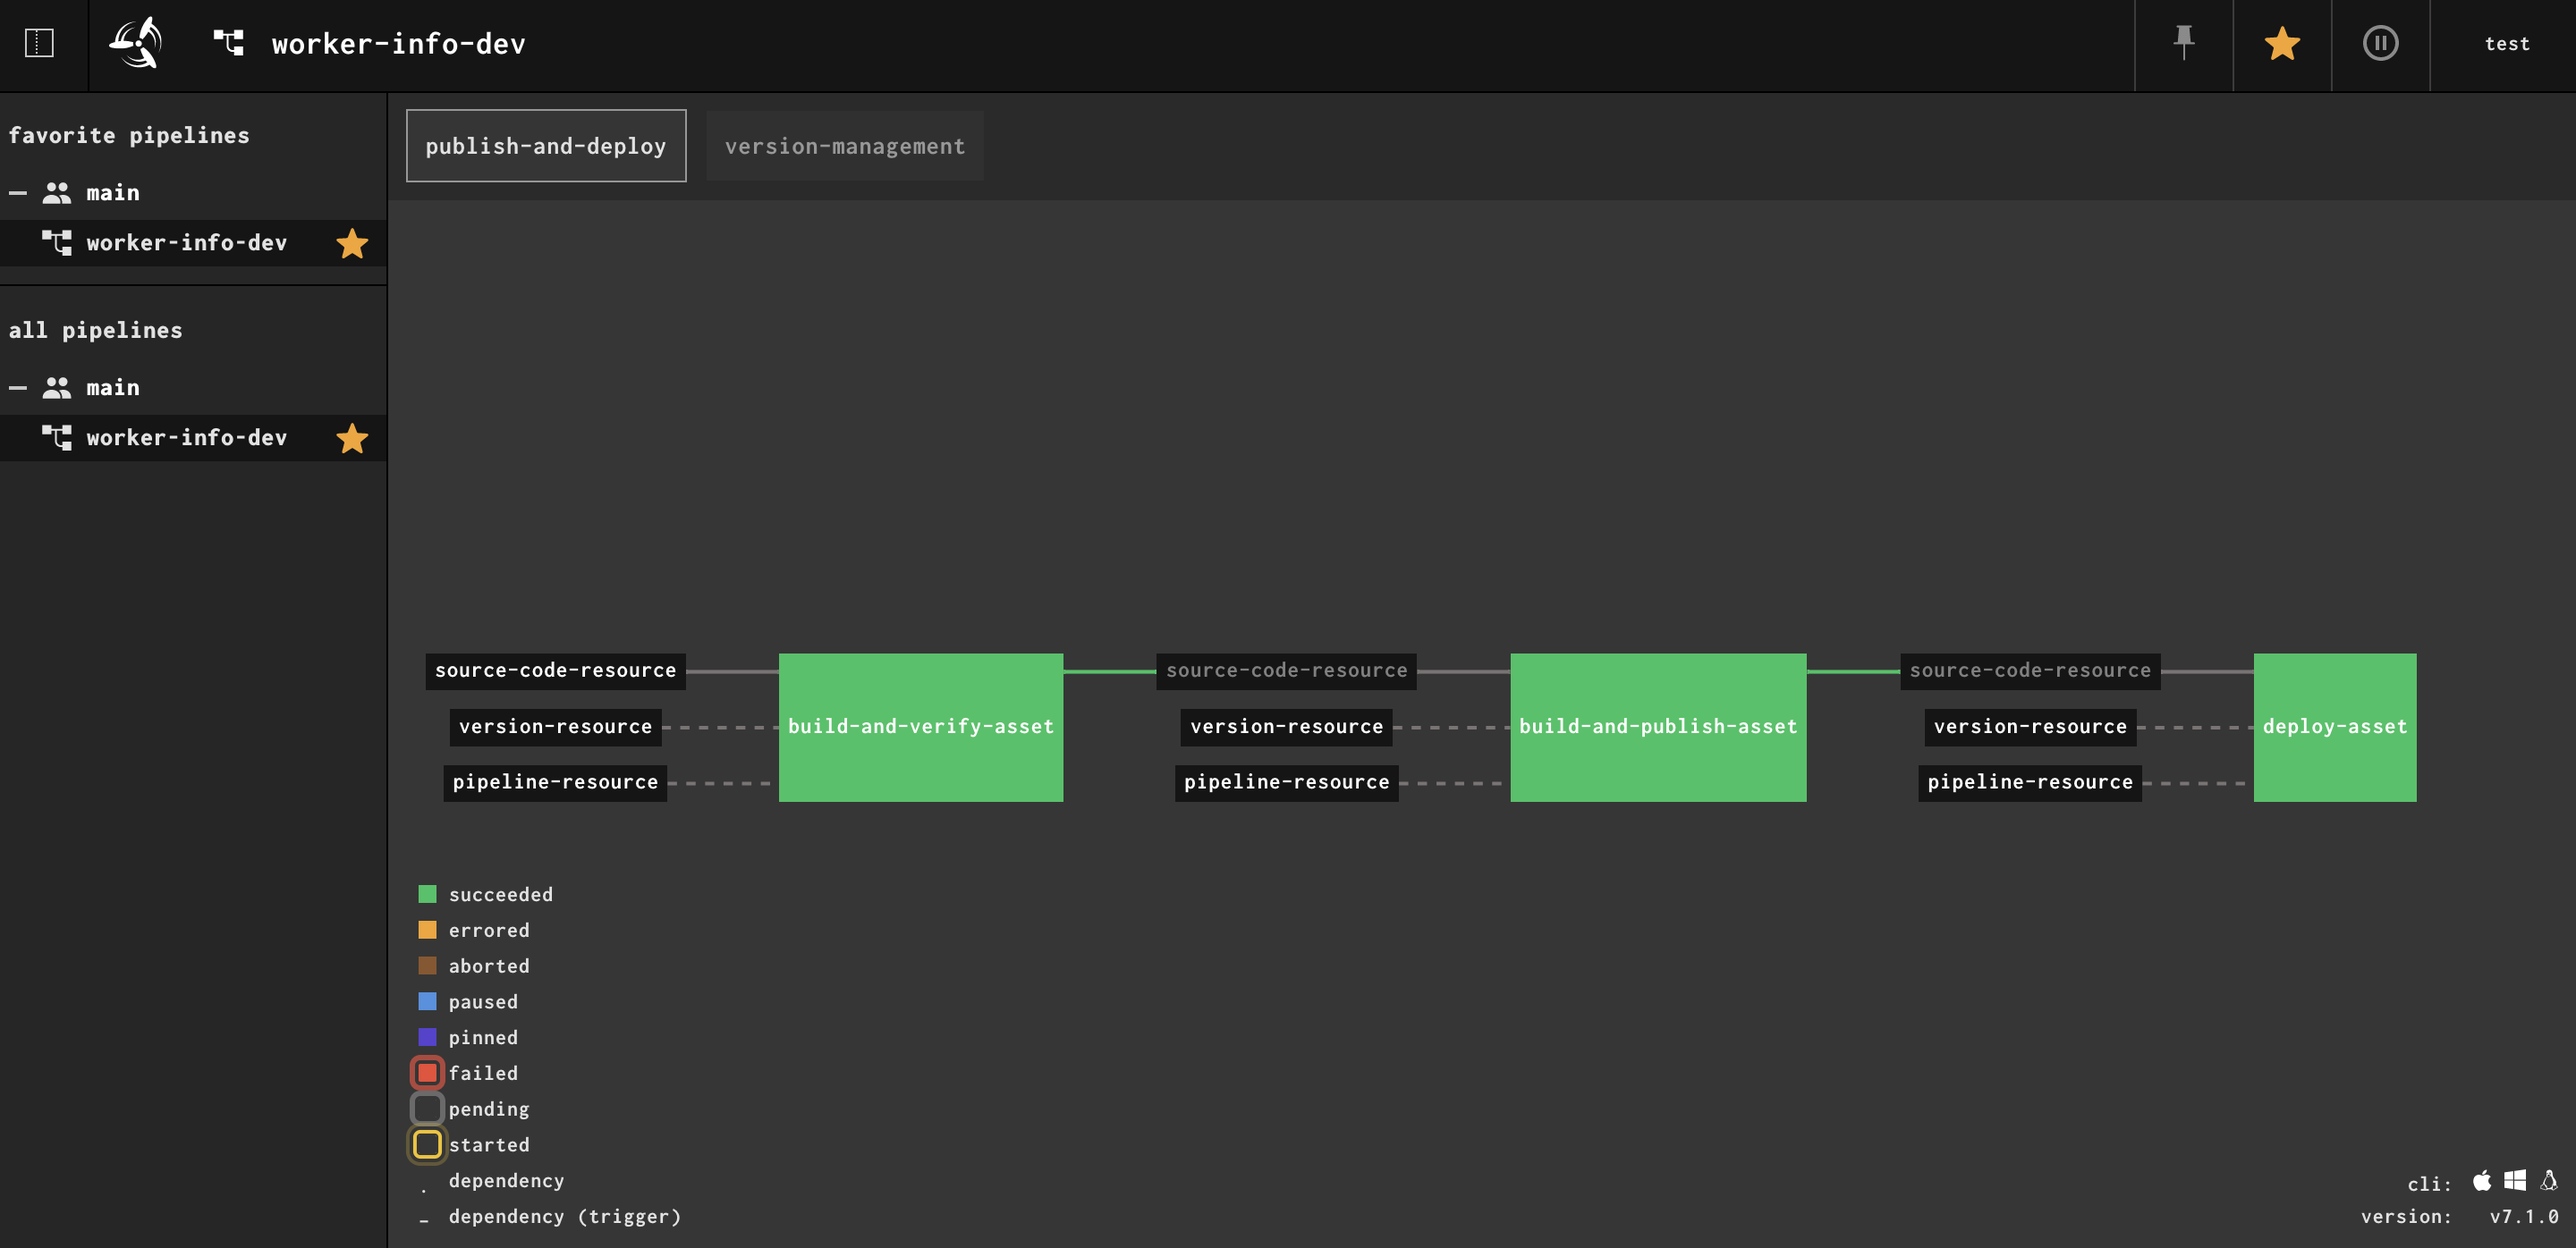
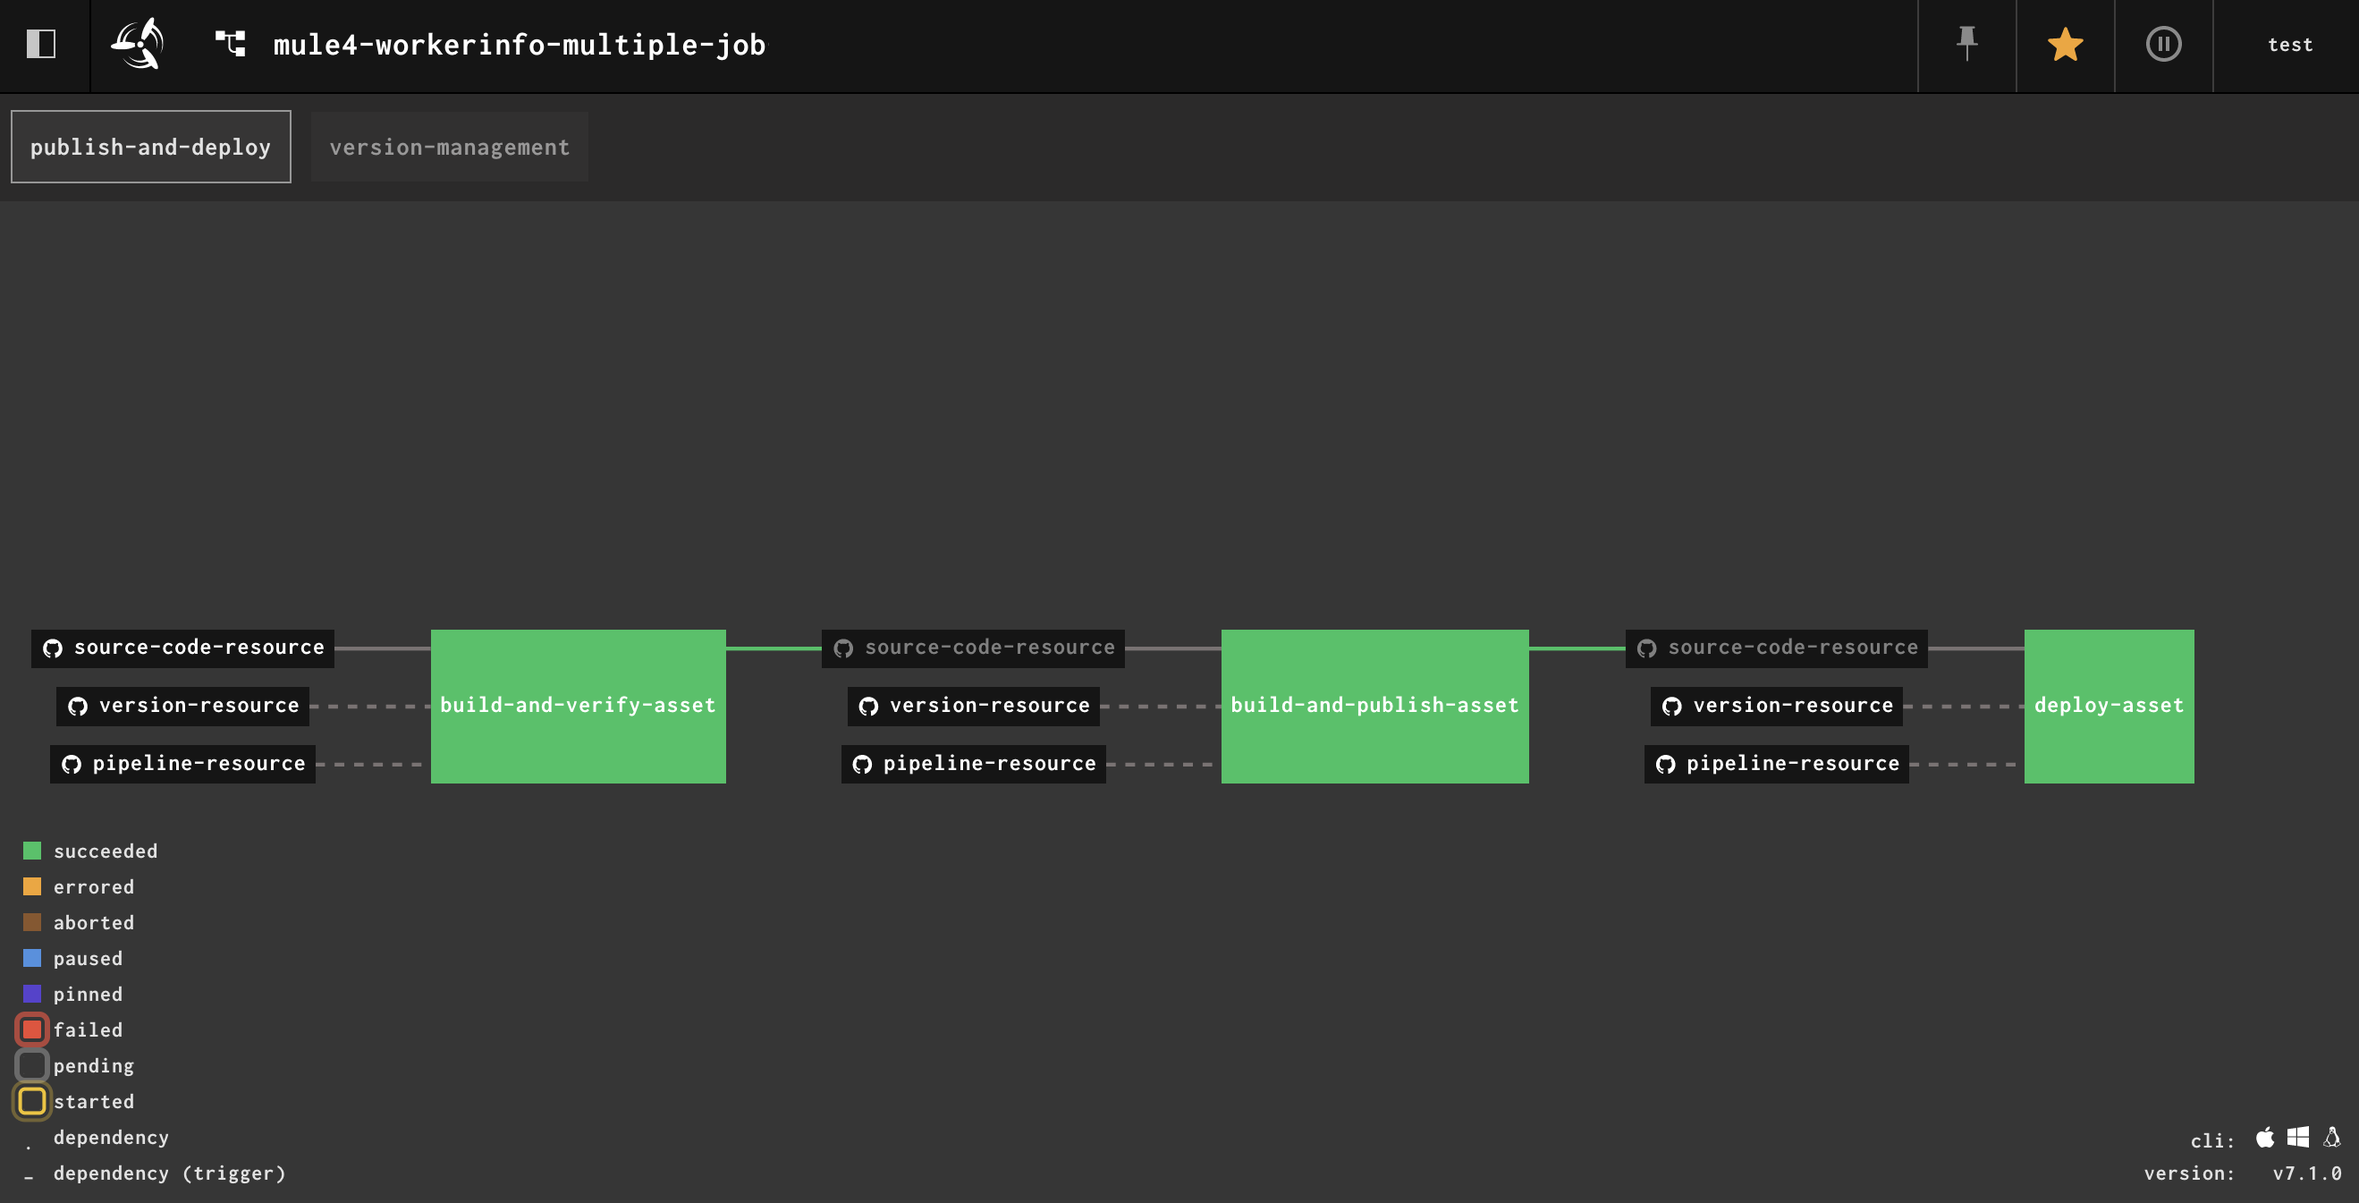
Update resource name

diff --git a/pipelines/pipeline-3/README.md b/pipelines/pipeline-3/README.md
@@ -139,6 +139,21 @@ The **Pipeline** properties refer to a repository containing the generic pipelin
 pipeline-resource-uri: git@github.com:example-org/mule-concourse-pipeline.git
 pipeline-resource-branch: main
 ```
+
+The **Exchange** properties refer to a Docker registry containing the image asset for this resourse type, e.g.:
+
+```
+exchange-concourse-resource-uri: docker.registry.com:10443/exchange-concourse-resource
+exchange-concourse-resource-tag: latest
+```
+
+The **Runtime Fabric** properties refer to a Docker registry containing the image asset for this resourse type, e.g.:
+
+```
+rtf-concourse-resource-uri: docker.registry.com:10443/rtf-concourse-resource
+rtf-concourse-resource-tag: latest
+```
+
 The **Platform** properties can be used to set the platform url and [Connected Apps](https://docs.mulesoft.com/access-management/connected-apps-overview) credentials, e.g.:
 
 ```
@@ -200,33 +215,33 @@ exhange-resource-artifact-id: mule4-workerinfo
 1. Create/update pipeline, e.g.:
 
 ```
-$ fly -t anypoint sp -p worker-info-dev -c pipeline.yml -l properties.yml -l credentials.yml
+$ fly -t anypoint sp -p mule4-workerinfo-custom-resources -c pipeline.yml -l properties.yml -l credentials.yml
 ```
 
 The **publish-and-deploy** group:
 
-![Concourse UI - worker-info-dev](images/pipeline-3-a.png)
+![Concourse UI - mule4-workerinfo-dev](images/pipeline-3-a.png)
 
 2. Unpause pipeline, e.g.:
 
 ```
-$ fly -t anypoint up -p worker-info-dev
+$ fly -t anypoint up -p mule4-workerinfo-custom-resources
 ```
 
 3. [ **Optional** ] - Trigger job, e.g.:
 
 ```
-$ fly -t anypoint tj -j worker-info-dev/build-and-publish-asset
+$ fly -t anypoint tj -j mule4-workerinfo-custom-resources/build-and-publish-asset
 ```
 
 4. [ **Optional** ] - Watch job, e.g.:
 
 ```
-$ fly -t anypoint watch -j worker-info-dev/build-and-publish-asset
+$ fly -t anypoint watch -j mule4-workerinfo-custom-resources/build-and-publish-asset
 ```
 
 5. [ **Optional** ] - Destroy pipeline, e.g.:
 
 ```
-$ fly -t anypoint dp -p worker-info-dev
+$ fly -t anypoint dp -p mule4-workerinfo-custom-resources
 ```

diff --git a/pipelines/pipeline-1/README.md b/pipelines/pipeline-1/README.md
@@ -159,50 +159,50 @@ deployment-last-mile-security: false
 1. Create/update pipeline, e.g.:
 
 ```
-$ fly -t anypoint sp -p worker-info-dev -c pipeline.yml -l properties.yml -l credentials.yml
+$ fly -t anypoint sp -p mule4-workerinfo-single-job -c pipeline.yml -l properties.yml -l credentials.yml
 ```
 
 The **publish-and-deploy** group:
 
-![Concourse UI - worker-info-dev](images/pipeline-1-a.png)
+![Concourse UI - mule4-workerinfo-dev](images/pipeline-1-a.png)
 
 The **version-management** group:
 
-![Concourse UI - worker-info-dev](images/pipeline-1-b.png)
+![Concourse UI - mule4-workerinfo-dev](images/pipeline-1-b.png)
 
 2. Unpause pipeline, e.g.:
 
 ```
-$ fly -t anypoint up -p worker-info-dev
+$ fly -t anypoint up -p mule4-workerinfo-single-job
 ```
 
 An instance of the **job-publish-and-deploy-asset** job (version: **1.0.1-rc.1-af9eff.....7457fcb**):
 
-![Concourse UI - worker-info-dev](images/pipeline-1-c.png)
+![Concourse UI - mule4-workerinfo-dev](images/pipeline-1-c.png)
 
 Published Exchange asset (version: **1.0.1-rc.1-af9eff.....7457fcb**):
 
-<img src="images/pipeline-1-d.png" alt="Concourse UI - worker-info-dev" width="1280"/>
+<img src="images/pipeline-1-d.png" alt="Concourse UI - mule4-workerinfo-dev" width="1280"/>
 
 Deployed Application based on Exchange asset (version: **1.0.1-rc.1-af9eff.....7457fcb**):
 
-![Concourse UI - worker-info-dev](images/pipeline-1-e.png)
+![Concourse UI - mule4-workerinfo-dev](images/pipeline-1-e.png)
 
 3. [ **Optional** ] - Trigger job, e.g.:
 
 ```
-$ fly -t anypoint tj -j worker-info-dev/job-publish-and-deploy-asset
+$ fly -t anypoint tj -j mule4-workerinfo-single-job/job-publish-and-deploy-asset
 ```
 
 4. [ **Optional** ] - Watch job, e.g.:
 
 ```
-$ fly -t anypoint watch -j worker-info-dev/job-publish-and-deploy-asset
+$ fly -t anypoint watch -j mule4-workerinfo-single-job/job-publish-and-deploy-asset
 ```
 
 5. [ **Optional** ] - Destroy pipeline, e.g.:
 
 ```
-$ fly -t anypoint dp -p worker-info-dev
+$ fly -t anypoint dp -p mule4-workerinfo-single-job
 ```
 

diff --git a/pipelines/pipeline-2/README.md b/pipelines/pipeline-2/README.md
@@ -175,33 +175,33 @@ deployment-last-mile-security: false
 1. Create/update pipeline, e.g.:
 
 ```
-$ fly -t anypoint sp -p worker-info-dev -c pipeline.yml -l properties.yml -l credentials.yml
+$ fly -t anypoint sp -p mule4-workerinfo-multiple-job -c pipeline.yml -l properties.yml -l credentials.yml
 ```
 
 The **publish-and-deploy** group:
 
-![Concourse UI - worker-info-dev](images/pipeline-2-a.png)
+![Concourse UI - mule4-workerinfo-dev](images/pipeline-2-a.png)
 
 2. Unpause pipeline, e.g.:
 
 ```
-$ fly -t anypoint up -p worker-info-dev
+$ fly -t anypoint up -p mule4-workerinfo-multiple-job
 ```
 
 3. [ **Optional** ] - Trigger job, e.g.:
 
 ```
-$ fly -t anypoint tj -j worker-info-dev/build-and-verify-asset
+$ fly -t anypoint tj -j mule4-workerinfo-multiple-job/build-and-verify-asset
 ```
 
 4. [ **Optional** ] - Watch job, e.g.:
 
 ```
-$ fly -t anypoint watch -j worker-info-dev/build-and-verify-asset
+$ fly -t anypoint watch -j mule4-workerinfo-multiple-job/build-and-verify-asset
 ```
 
 5. [ **Optional** ] - Destroy pipeline, e.g.:
 
 ```
-$ fly -t anypoint dp -p worker-info-dev
+$ fly -t anypoint dp -p mule4-workerinfo-multiple-job
 ```
